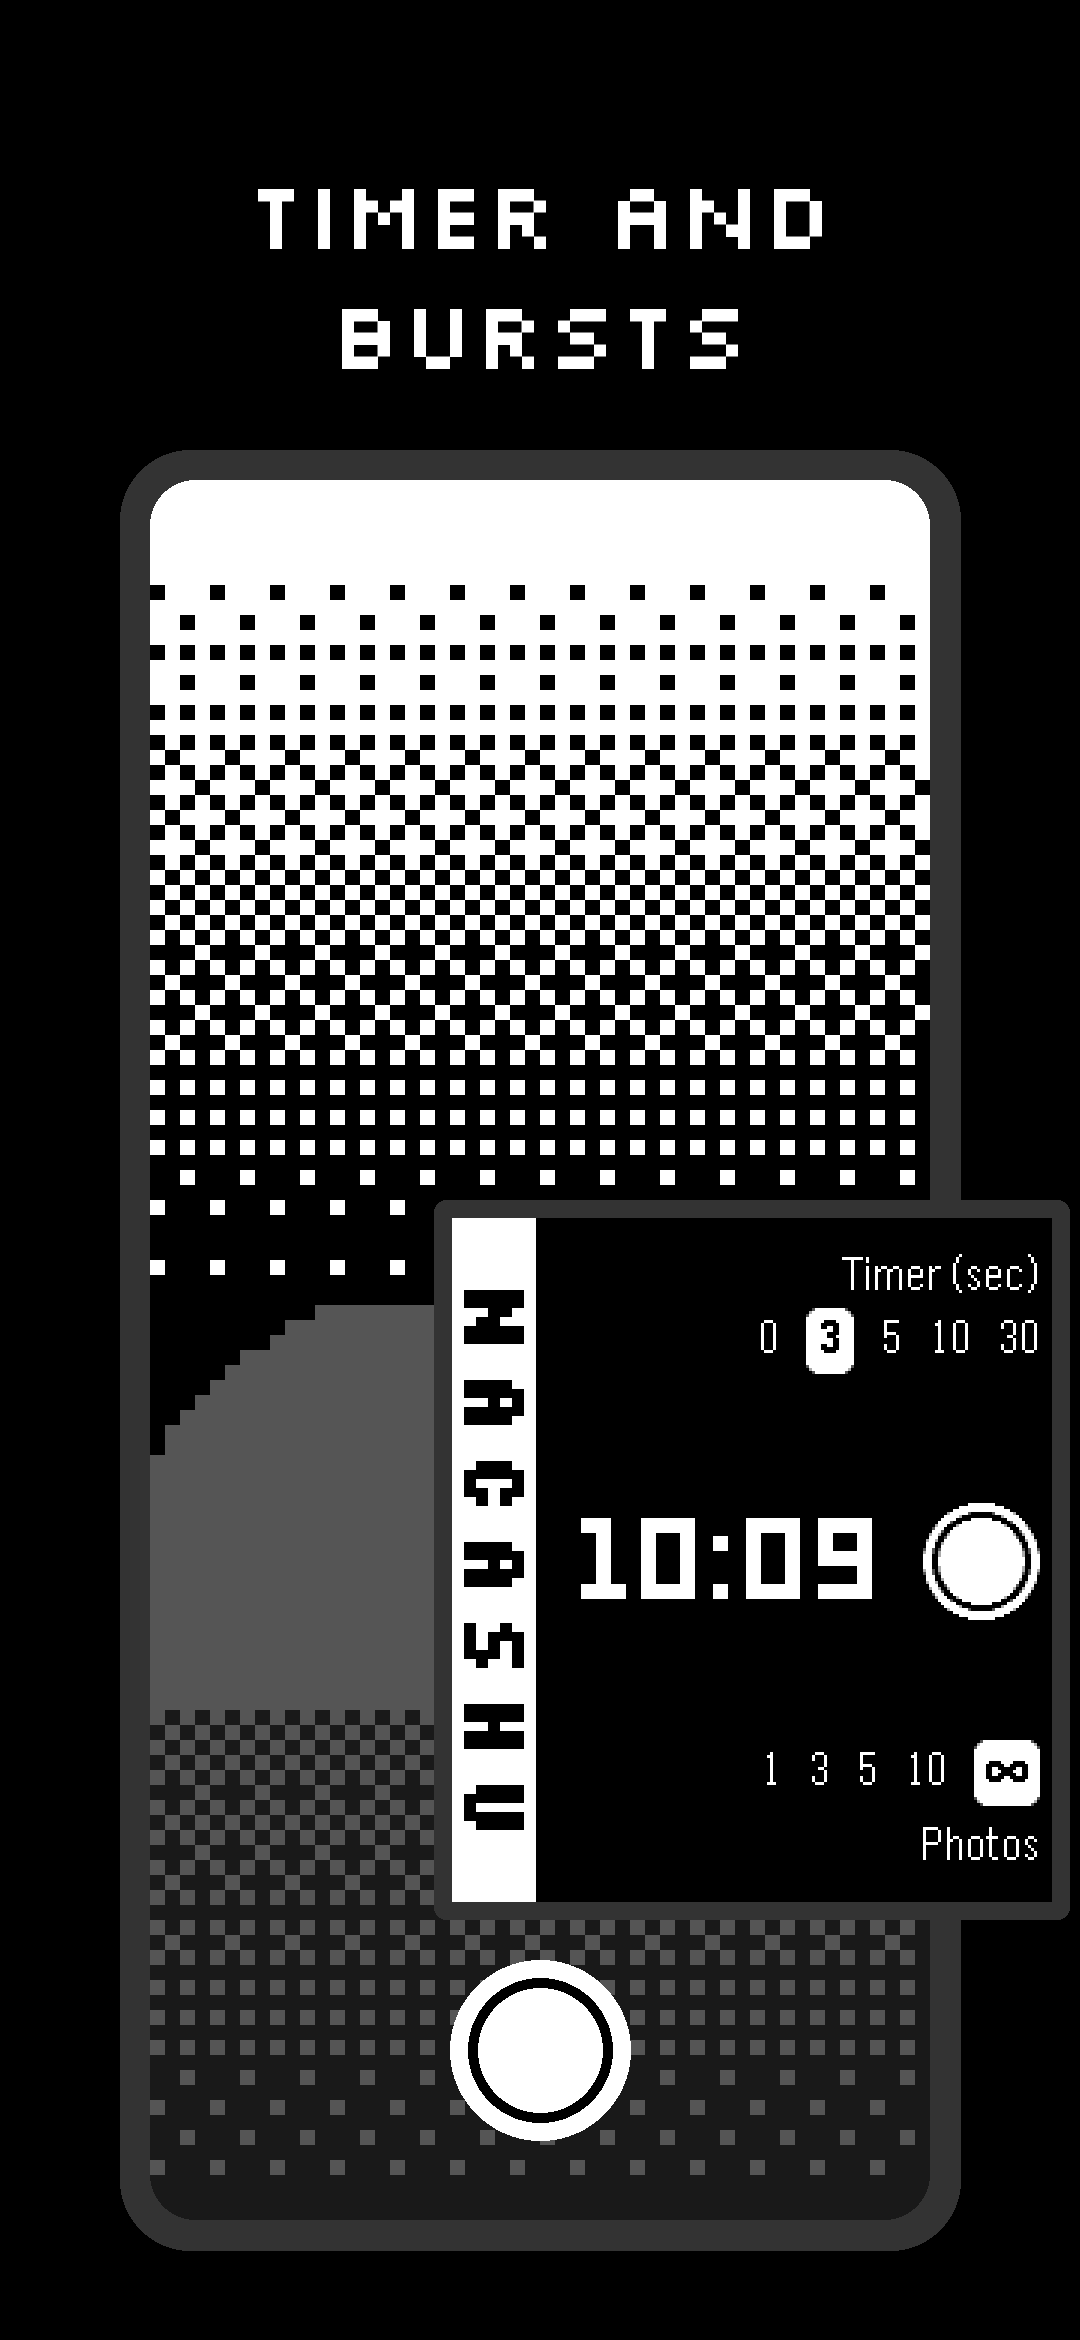
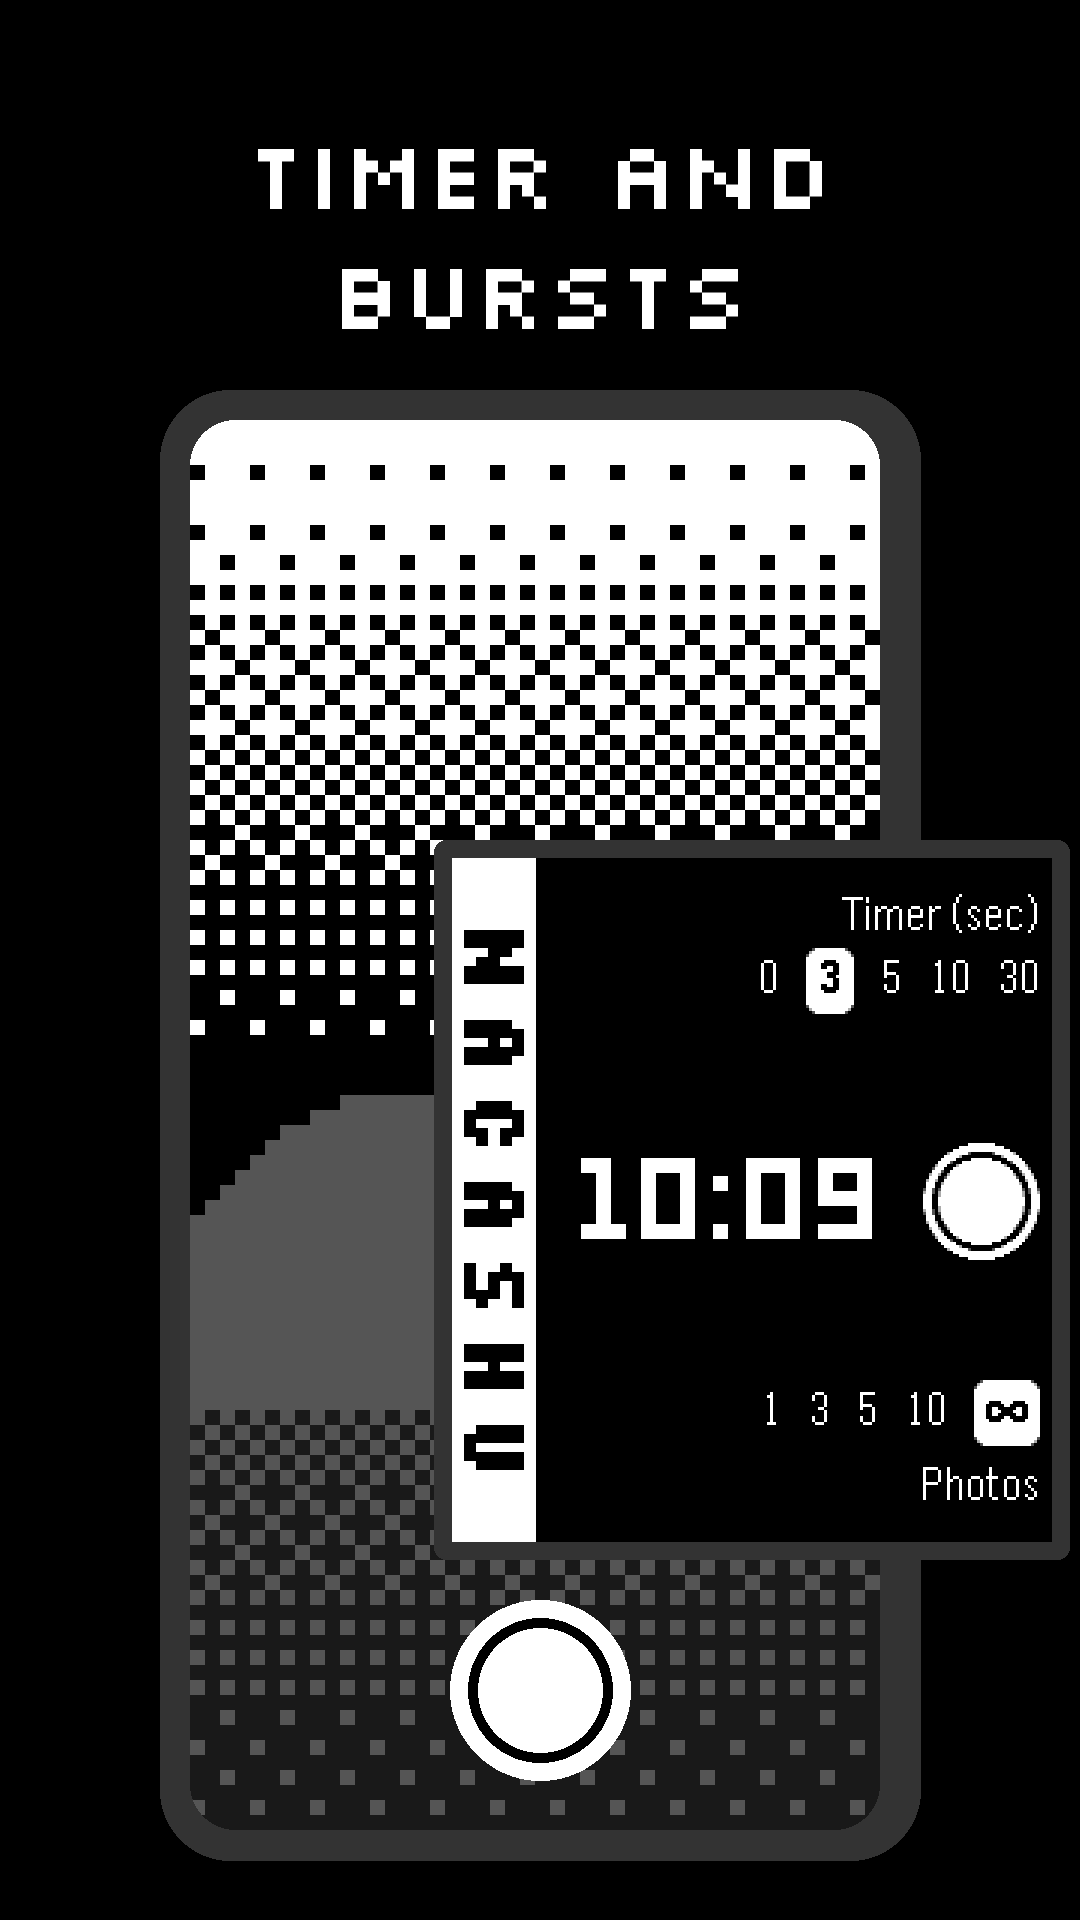
Store screenshots at 9:16, since Play rejects anything longer than 2:1
Claude-Session: https://claude.ai/code/session_016qf2GgT2tLT2mnJt2QRVqN

diff --git a/watch/tools/make_store_images.py b/watch/tools/make_store_images.py
@@ -72,26 +72,26 @@ def centred(d, y, text, f, w, fill=WHITE):
 
 
 def phone_screenshot(lines, shot, path, round_screen=False):
-    W, H = 1080, 2340
+    W, H = 1080, 1920  # 9:16; Play rejects anything longer than 2:1
     img = Image.new("RGB", (W, H), BLACK)
     d = ImageDraw.Draw(img)
     big = font(pixel_font, 96)
     for i, line in enumerate(lines):
-        centred(d, 150 + i * 120, line, big, W)
+        centred(d, 110 + i * 120, line, big, W)
     # Phone running the camera app.
-    px, py, pw, ph = 120, 450, 840, 1800
+    px, py, pw, ph = 160, 390, 760, 1470
     d.rounded_rectangle((px, py, px + pw, py + ph), radius=70, fill=DARK)
     view = scene(pw - 60, ph - 60, 15)
     mask = Image.new("L", view.size, 0)
     ImageDraw.Draw(mask).rounded_rectangle((0, 0, view.width - 1, view.height - 1), radius=45, fill=255)
     img.paste(view, (px + 30, py + 30), mask)
-    cx, cy = px + pw // 2, py + ph - 200
+    cx, cy = px + pw // 2, py + ph - 170
     d.ellipse((cx - 90, cy - 90, cx + 90, cy + 90), fill=WHITE)
     d.ellipse((cx - 72, cy - 72, cx + 72, cy + 72), fill=BLACK)
     d.ellipse((cx - 62, cy - 62, cx + 62, cy + 62), fill=WHITE)
     # The watch, overlapping the phone's right edge.
     w = watch(screen(shot, 3), 3, round_screen)
-    img.paste(w, (W - w.width - 10, py + ph - w.height - 330), w)
+    img.paste(w, (W - w.width - 10, py + ph - w.height - 300), w)
     img.save(path, optimize=True)
 
 

diff --git a/RELEASING.md b/RELEASING.md
@@ -21,7 +21,7 @@ The listing lives in `fastlane/metadata/android/en-US/` in the layout [fastlane 
 | `images/featureGraphic.png` | Feature graphic | 1024 x 500 PNG |
 | `images/phoneScreenshots/` | Phone screenshots | 2 to 8 |
 
-`icon.png`, `featureGraphic.png` and the watch screenshots (`1-` to `3-`) are drawn from `docs/icon.png` and the watchapp screenshots in `docs/` by `watch/tools/make_store_images.py`. Run it again when the watchapp's look changes: `python3 watch/tools/make_store_images.py Silkscreen-Regular.ttf Inter-SemiBold.otf`. Phone app screenshots (`4-` onwards) are real captures from a phone.
+`icon.png`, `featureGraphic.png` and the watch screenshots (`1-` to `3-`) are drawn from `docs/icon.png` and the watchapp screenshots in `docs/` by `watch/tools/make_store_images.py`. Run it again when the watchapp's look changes: `python3 watch/tools/make_store_images.py Silkscreen-Regular.ttf Inter-SemiBold.otf`. Phone app screenshots (`4-` onwards) are real captures from a phone, cropped to 9:16 (Play rejects screenshots longer than 2:1, and a Pixel 10 Pro capture is about 2.2:1).
 
 Keep "Pebble" out of the app name (Pebble's trademark rules); saying the app works with Pebble watches in the description is fine.
 
